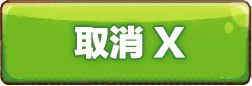
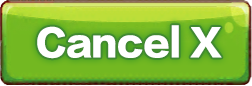
res

Changed region(s): [[0.1389, 0.2326, 0.8889, 0.7209]]

diff --git a/Classes/LoginScene.cpp b/Classes/LoginScene.cpp
@@ -29,8 +29,8 @@ bool LoginScene::init()
 	//menu
 	std::string nemuOneName = "";
 	std::string nemuTwoName = "";
-	nemuOneName = s_language + "kaishi.png";
-	nemuTwoName = s_language + "tuichu.png";
+	nemuOneName = s_touchfile + s_language + "kaishi.png";
+	nemuTwoName = s_touchfile + s_language + "tuichu.png";
 	_pStarMenu = CCMenuItemImage::itemFromNormalImage(
 		nemuOneName.c_str(),
 		NULL,
@@ -56,8 +56,9 @@ bool LoginScene::init()
 	addChild(_rowSp);
 
 	//music btn
+	std::string str = s_touchfile  + "actor_btn_music_on.png";
 	m_pMusicItem = CCMenuItemSprite::itemFromNormalSprite(
-		CCSprite::spriteWithFile("actor_btn_music_on.png"),
+		CCSprite::spriteWithFile(str.c_str()),
 		NULL,
 		this,
 		menu_selector(LoginScene::musicBtnClick)
@@ -282,14 +283,16 @@ void LoginScene::setMusicBtnState()
 {
 	if (AudioManager::getInstance()->getMusicState())
 	{
+		std::string str = s_touchfile  + "actor_btn_music_on.png";
 		AudioManager::getInstance()->playMusic("audio/background.mp3", true);
 		AudioManager::getInstance()->resumeAllEffects();
-		m_pMusicItem->setNormalImage(CCSprite::spriteWithFile("actor_btn_music_on.png"));
+		m_pMusicItem->setNormalImage(CCSprite::spriteWithFile(str.c_str()));
 	}
 	else
 	{
+		std::string str = s_touchfile  + "actor_btn_music_off.png";
 		AudioManager::getInstance()->stopMusic();
 		AudioManager::getInstance()->pauseAllEffects();
-		m_pMusicItem->setNormalImage(CCSprite::spriteWithFile("actor_btn_music_off.png"));
+		m_pMusicItem->setNormalImage(CCSprite::spriteWithFile(str.c_str()));
 	}
 }

diff --git a/Classes/Component/PauseLayer.cpp b/Classes/Component/PauseLayer.cpp
@@ -38,9 +38,9 @@ bool PauseLayer::initPauseLayer()
 	std::string stdNameOne = "";
 	std::string stdNameTwo = "";
 	std::string stdNameThree = "";
-	stdNameOne = s_language + "actor_btn_continue.png";
-	stdNameTwo = s_language + "actor_btn_restart.png";
-	stdNameThree = s_language + "actor_btn_exit.png";
+	stdNameOne = s_touchfile + s_language + "actor_btn_continue.png";
+	stdNameTwo = s_touchfile + s_language + "actor_btn_restart.png";
+	stdNameThree = s_touchfile + s_language + "actor_btn_exit.png";
 	CCMenuItemImage *continueItem = CCMenuItemImage::itemFromNormalImage(stdNameOne.c_str(), stdNameOne.c_str(), this, menu_selector(PauseLayer::continueGame));
 	CCMenuItemImage *restartItem = CCMenuItemImage::itemFromNormalImage(stdNameTwo.c_str(), stdNameTwo.c_str(), this, menu_selector(PauseLayer::restartGame));
 	CCMenuItemImage *exitItem = CCMenuItemImage::itemFromNormalImage(stdNameThree.c_str(), stdNameThree.c_str(), this, menu_selector(PauseLayer::exitGame));

diff --git a/Classes/Component/LoadingLayer.cpp b/Classes/Component/LoadingLayer.cpp
@@ -34,6 +34,7 @@ bool LoadingLayer::init()
 	CCActionInterval*  action = CCAnimate::actionWithAnimation(animation, true);
 	loadingSprite->runAction(CCRepeatForever::actionWithAction(action));
 	CheckLanguage();
+	checkTouch();
 	this->schedule(schedule_selector(LoadingLayer::update),0.5);
 	return true;
 }
@@ -122,6 +123,22 @@ void LoadingLayer::CheckLanguage()
 		s_language = "En/";
 		break;
 	default:break;
+	}
+
+}
+
+void LoadingLayer::checkTouch()
+{
+	if (CCDirector::sharedDirector()->isHandset())
+	{
+		//CCSprite* ...... your code
+		s_touchfile = "";
+	}
+	else
+	{
+		//CCSprite* ...... your code
+		CCLog("%s%d====This is none-handset version!\n", __FILE__, __LINE__);
+		s_touchfile = "Touch/";
 	}
 
 }

diff --git a/Classes/Component/TipLayer.cpp b/Classes/Component/TipLayer.cpp
@@ -38,8 +38,8 @@ bool TipLayer::initTipLayer()
 	std::string stdNameOne = "";
 	std::string stdNameTwo = "";
 	std::string contentImageName = "";
-	stdNameOne = s_language + "actor_btn_cancel.png";
-	stdNameTwo = s_language + "actor_btn_confirm.png";
+	stdNameOne = s_touchfile + s_language + "actor_btn_cancel.png";
+	stdNameTwo = s_touchfile + s_language + "actor_btn_confirm.png";
 	contentImageName = s_language + "actor_img_tipContent.png";
 	//content
 	CCSprite *pContentSprite = CCSprite::spriteWithFile(contentImageName.c_str());

diff --git a/Classes/AppDelegate.cpp b/Classes/AppDelegate.cpp
@@ -100,6 +100,8 @@ bool AppDelegate::applicationDidFinishLaunching() {
 	CCDirector *pDirector = CCDirector::sharedDirector();
 	pDirector->setOpenGLView(&CCEGLView::sharedOpenGLView());
 
+	pDirector->checkHandset();
+
 	// enable High Resource Mode(2x, such as iphone4) and maintains low resource on other devices.
 //     pDirector->enableRetinaDisplay(true);
 

diff --git a/Classes/Component/LoadingLayer.h b/Classes/Component/LoadingLayer.h
@@ -9,6 +9,7 @@ public:
 	LoadingLayer();
 	virtual ~LoadingLayer();
 	void CheckLanguage();
+	void checkTouch();
 private:
 	virtual void update(float dt);
 private:

diff --git a/Classes/Config/BaseConfig.cpp b/Classes/Config/BaseConfig.cpp
@@ -1,3 +1,4 @@
 #include "BaseConfig.h"
 
 extern std::string s_language = "";
+extern std::string s_touchfile = "";

diff --git a/Classes/Config/BaseConfig.h b/Classes/Config/BaseConfig.h
@@ -39,3 +39,4 @@
 #define KEY_Y	38 //J
 
 extern std::string s_language;
+extern std::string s_touchfile;
